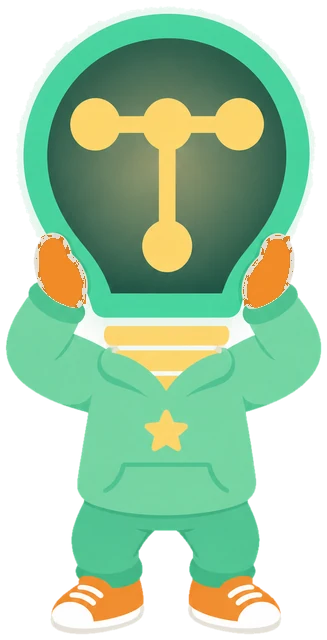
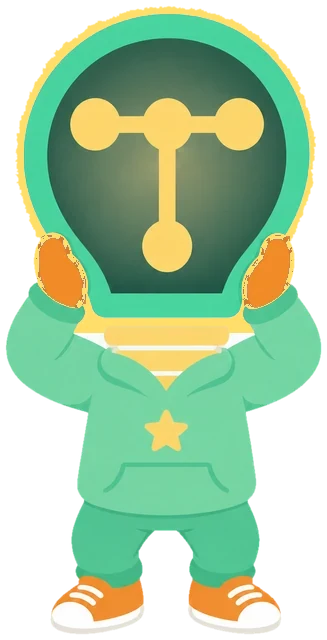
fix240-241: Lumi nem takar, fejlec alatt halad, sarga lampafeny

diff --git a/static/js/lumi.js b/static/js/lumi.js
@@ -75,9 +75,9 @@
     var doboz = D.createElement('div');
     doboz.id = 'lumi';
     doboz.setAttribute('aria-hidden', 'true');
-    doboz.style.cssText = 'position:absolute;left:0;top:0;width:0;height:0;z-index:950;pointer-events:none;';
+    doboz.style.cssText = 'position:absolute;left:0;top:0;width:0;height:0;z-index:45;pointer-events:none;';
     var kotel = D.createElementNS(NS, 'svg');
-    kotel.style.cssText = 'position:absolute;left:0;top:0;width:1px;height:1px;overflow:visible;pointer-events:none;z-index:948';
+    kotel.style.cssText = 'position:absolute;left:0;top:0;width:1px;height:1px;overflow:visible;pointer-events:none;z-index:44';
     kotel.innerHTML = '<path d="" fill="none" stroke="#9A6A32" stroke-width="3.4" stroke-linecap="round"/><path d="" fill="none" stroke="#E0B47A" stroke-width="1.4" stroke-dasharray="3 5" stroke-linecap="round"/>';
     var arny = D.createElement('div');
     arny.style.cssText = 'position:absolute;border-radius:50%;background:radial-gradient(closest-side,rgba(14,42,30,.22),rgba(14,42,30,0));pointer-events:none;opacity:0';
@@ -302,7 +302,7 @@
             .then(function () { return Promise.all([kuszik(x1, ay, y1), anim({lat: 1}, 260, 'ki')]); })
             .then(function () { return lelep(x1, ay); });
     }
-    var kint = false, alattam = null;           // alattam: a felület (elem), amin épp áll
+    var kint = false, alattam = null, kijott = false, bentIdo = 0;           // alattam: a felület (elem), amin épp áll
     function logoPont() { var l = lap(logo); return {x: l.x + l.w / 2, y: l.y + l.h * .55, al: l.y + l.h}; }
     function kijon(cel) {
         var lp = logoPont(), x = lp.x, fent = lp.al - 2, h = MAGAS();
@@ -312,21 +312,31 @@
         return var_(450)
             .then(function () { return anim({}, 380, 'ki', function (u, e) { kotelRajz(x, fent, fent + h * 1.6 * e); }); })   // ledobja a kötelet
             .then(function () {
-                logoAllapot(false); kint = true;
+                logoAllapot(false); kint = true; reteg(true);
                 P.x = x; P.y = lp.y + h * .35; P.meret = .4; P.lat = 1; P.feny = 0; Object.assign(P, NYUGI); maszik(0); P.arnyek = 0;
                 return anim({meret: 1}, 420, 'ki', function (u) { P.y = lp.y + h * (.35 + .9 * u); kotelTest(x, fent); });       // kibújik
             })
             .then(function () { return kuszik(x, fent, Math.min(c.y, fent + h * 1.3)); })                    // lejjebb mászik
+            .then(function () { reteg(false); })
             .then(function () { return kotelut(c.x, c.y, {ax0: x, ay: fent, marKotelen: true}); })           // átlendül, lemászik, lelép
             .then(function () { alattam = c.f || null; return integet(); })
             .then(function () { if (c.ul && P.kep === 'alap') { return ul(); } });
+    }
+    /* fix241 (Sándor: „a fejléc lefejezi Lumit”): Lumi a lap része – a fejléc ALATT halad el (a fejléc eltakarja,
+       nem ő a fejlécet). Csak amíg a logóból kibújik / visszabújik, addig van a fejléc fölött. */
+    function reteg(fent) { doboz.style.zIndex = fent ? 950 : 45; kotel.style.zIndex = fent ? 948 : 44; }
+    function fejAlatt() { return P.y - MAGAS() * .9 < fejlecAlja() - 2; }      // a feje a fejléc alá csúszott
+    function hazaCsendben() {                    // fix239: nem látszik, és a képernyőn sehol nincs neki szabad hely
+        kotelKi(); kint = false; alattam = null; P.lat = 0; rajzol(); logoAllapot(true); bentIdo = Date.now();
+        if (logoG) { logoG.style.transform = 'scale(.7)'; setTimeout(function () { logoAllapot(true); }, 60); }
+        return Promise.resolve('bent');
     }
     function visszamaszik() {
         var lp = logoPont(), ay = lp.al - 2, sajat = megszakit, h = MAGAS(), ax = P.x, y0 = P.y;
         if (!lathato(lp.al + 40) || !latszik()) { return Promise.resolve(); }      // a logó (vagy ő) nem látszik: marad
         var stop = function () { return sajat !== megszakit; };
         function meggondol(x) {                                    // félúton „jé, megint csinál valamit!” – visszamászik
-            var c = most() || {x: ax, y: y0, f: alattam};
+            var c = most() || {x: ax, y: y0, f: alattam}; reteg(false);
             return jel('!', true).then(function () { return var_(400); }).then(function () { return jel('!', false); })
                 .then(function () { return kotelut(c.x, c.y, {ax0: x, ay: ay, marKotelen: true}); })
                 .then(function () { alattam = c.f || null; if (c.ul && P.kep === 'alap') { return ul(); } })
@@ -336,10 +346,11 @@
             .then(function () { return kuszik(ax, ay, ay + h * 1.2, stop); })
             .then(function (s) { if (s) { return meggondol(ax); }
                 return lendul(ax, lp.x, ay).then(function () { if (stop()) { return meggondol(lp.x); }
+                    reteg(true);
                     return kuszik(lp.x, ay, lp.y + h * 1.05, stop).then(function (s2) { if (s2) { return meggondol(lp.x); }
                         var y1 = P.y;
                         return anim({meret: .4, lat: 0}, 380, 'be', function (u) { P.y = y1 - u * 6; kotelRajz(lp.x, ay, ay + (P.y - ay) * (1 - u)); })   // be a logóba
-                            .then(function () { kotelKi(); kint = false; alattam = null; logoAllapot(true); return 'bent'; });
+                            .then(function () { kotelKi(); kint = false; alattam = null; reteg(false); logoAllapot(true); bentIdo = Date.now(); return 'bent'; });
                     });
                 });
             });
@@ -358,14 +369,15 @@
             akadalyok.push({l: r.left + sx, t: r.top + sy, r: r.right + sx, b: r.bottom + sy, tip: tip, el: el}); } }
         var w = D.createTreeWalker(D.body, NodeFilter.SHOW_TEXT, {acceptNode: function (n) {
             if (!n.nodeValue || !n.nodeValue.trim()) { return NodeFilter.FILTER_REJECT; }
-            var p = n.parentElement; if (!p || p.closest('#lumi, script, style, noscript, .navbar, header')) { return NodeFilter.FILTER_REJECT; }
+            var p = n.parentElement; if (!p || p.closest('#lumi, script, style, noscript')) { return NodeFilter.FILTER_REJECT; }
             if (p.closest('details:not([open]) > :not(summary)') || (p.checkVisibility && !p.checkVisibility({visibilityProperty: true}))) { return NodeFilter.FILTER_REJECT; }   // fix239: a becsukott GYIK-válasz szövege nem akadály
             return NodeFilter.FILTER_ACCEPT; }});
         var rg = D.createRange(), n;
         while ((n = w.nextNode())) { rg.selectNodeContents(n); [].forEach.call(rg.getClientRects(), function (r) { tesz(r, 'szoveg'); }); }
         D.querySelectorAll('button, img, video, canvas, select, textarea, input, svg, .fp-nyil, .password-toggle, a.fp-gomb, [role=button]').forEach(function (e) {
-            if (e.closest('#lumi, .navbar, header, details:not([open]) > :not(summary)') || e.type === 'hidden' || (e.checkVisibility && !e.checkVisibility())) { return; }
+            if (e.closest('#lumi, details:not([open]) > :not(summary)') || e.type === 'hidden' || (e.checkVisibility && !e.checkVisibility())) { return; }
             var cs = getComputedStyle(e); if (cs.visibility === 'hidden' || cs.display === 'none' || +cs.opacity < .2) { return; }
+            if (e.tagName.toLowerCase() === 'svg') { var rs = e.getBoundingClientRect(); if (e.parentElement && e.parentElement.closest('svg')) { return; } var nagy = Math.max(rs.width, rs.height), kis = Math.min(rs.width, rs.height); if (nagy > 90 && (kis < 26 || nagy / Math.max(1, kis) > 6 || e.getAttribute('aria-hidden') === 'true')) { return; } }   // fix239: a nagy díszítő vonal (pl. pöttyözött út) nem akadály, az ikon igen
             tesz(e.getBoundingClientRect(), e.matches('input, textarea, select') ? 'mezo' : 'elem', e);
         });
         return akadalyok;
@@ -381,8 +393,14 @@
         return {l: x - h * .25, r: x + h * .25, t: y - h * fel, b: y + h * al};
     }
     function utkozik(d, sajatMezo) { return takaras(d, sajatMezo) > 0; }
+    var fejAljaIdo = 0, fejAlja = 0;
+    function fejlecAlja() {                     // fix239: a (ragadós) fejléc alja lapkoordinátában – Lumi teste ennél feljebb nem lóghat
+        if (performance.now() - fejAljaIdo > 300) { fejAljaIdo = performance.now(); var hd = D.querySelector('.navbar, header'); fejAlja = hd ? hd.getBoundingClientRect().bottom : 0; }
+        return scrollY + Math.max(0, fejAlja);
+    }
     function takaras(d, sajatMezo) {          // fix238: MENNYI szöveget/elemet takarna (terület, px²)
-        var a = akadalyGyujt(), ossz = 0;
+        var a = akadalyGyujt(), ossz = 0, fa = fejlecAlja();
+        if (d.t < fa + 2) { ossz += (fa + 2 - d.t) * (d.r - d.l) * 3; }       // belelógna a fejlécbe
         for (var i = 0; i < a.length; i++) {
             var o = a[i], l = o.l, r = o.r;
             if (o.tip === 'mezo') {                       // a mezőn ülhet/állhat – csak a beírt szövegre nem lóghat
@@ -399,20 +417,40 @@
     /* fix238 (Sándor: „ne oldalt a levegőben – találja meg a helyet, ahol nem takar”): mindig VALÓDI felületen
        marad. Sorrend: állva semmit nem takar → ülve (a lába a mező üres részén) semmit nem takar → ahol a
        legkevesebbet takarná. Kötélen oldalt már nem lóg. */
+    /* fix239 (Sándor: „belelóg a szövegbe”, csomagok: a levegőben ült): csak LÁTHATÓ felületen áll – aminek
+       háttere, kerete vagy árnyéka van (kártya, mező, sáv) –, és csak ott, ahol a talpa alatt tényleg az a
+       felület van (nem takarja el más). Az átlátszó „láthatatlan dobozok” teteje nem felület. */
+    function alfa(c) { if (!c || c === 'transparent') { return 0; } var m = c.match(/rgba?\(([^)]+)\)/); if (!m) { return 1; }
+        var p = m[1].split(/[\s,\/]+/).filter(Boolean); return p.length > 3 ? parseFloat(p[3]) : 1; }
+    function valodi(el) {
+        if (!el || el.nodeType !== 1) { return false; }
+        if (el.matches('input:not([type=checkbox]):not([type=radio]), textarea, select, button, img, video, canvas')) { return true; }
+        var cs = getComputedStyle(el);
+        if (cs.visibility === 'hidden' || +cs.opacity < .3) { return false; }
+        return alfa(cs.backgroundColor) > .15 || cs.backgroundImage !== 'none' || cs.boxShadow !== 'none' ||
+            (parseFloat(cs.borderTopWidth) > .5 && cs.borderTopStyle !== 'none' && alfa(cs.borderTopColor) > .15);
+    }
+    function alatta(x, y, el) {                 // a talpa alatt (pár px-szel lejjebb) tényleg ez a felület van-e
+        var vx = x - scrollX, vy = y + 3 - scrollY;
+        if (vx < 1 || vy < 1 || vx > innerWidth - 1 || vy > innerHeight - 1) { return true; }   // nem látszik – nem tudjuk ellenőrizni
+        var t = D.elementsFromPoint(vx, vy);
+        for (var i = 0; i < t.length; i++) { if (t[i].closest('#lumi')) { continue; } return el.contains(t[i]); }
+        return false;
+    }
     function keres(feluletek, sajatMezo) {
         var h = MAGAS(), fel = h * .28, lx = scrollX + 6, rx = scrollX + innerWidth - 6, legjobb = null;
+        feluletek = feluletek.filter(function (f) { return f && f.w >= h * .6 && f.y > scrollY + 20 && f.y < scrollY + innerHeight - 8 && valodi(f.el); });   // csak látható, valódi felület
         for (var mod = 0; mod < 2; mod++) {
             for (var i = 0; i < feluletek.length; i++) {
-                var f = feluletek[i]; if (!f || f.w < h * .6) { continue; }
+                var f = feluletek[i];
                 var bal = Math.max(f.l + fel, lx + fel), jobb = Math.min(f.r - fel, rx - fel);
                 for (var x = jobb; x >= bal; x -= 8) {
                     var t = takaras(dobozom(x, f.y + 1, mod === 1), sajatMezo) + (jobb - x) * .01 + i * 50;
-                    if (t < 1 + (jobb - x) * .01 + i * 50) { return {x: x, y: f.y + 1, ul: mod === 1, f: f.el}; }
-                    if (!legjobb || t < legjobb.t) { legjobb = {x: x, y: f.y + 1, ul: mod === 1, t: t, f: f.el}; }
+                    if (t < 1 + (jobb - x) * .01 + i * 50) { if (alatta(x, f.y, f.el)) { return {x: x, y: f.y + 1, ul: mod === 1, f: f.el}; } continue; }
                 }
             }
         }
-        return legjobb;
+        return null;            // fix239 (Sándor: „belelóg a szövegbe”): ha mindenhol takarna, itt nincs helye – inkább máshová megy
     }
     function kartyaja(el) { return el.closest('.fp-kartya, .auth-card, .doboz, .card, details, form, main section') || el.parentElement; }
     function helyMezo(m) {
@@ -420,28 +458,39 @@
         if (m.type === 'checkbox' || m.type === 'radio') { c = m.closest('label, .field') || m; }
         var mezo = m.matches('input, textarea, select') && m.type !== 'checkbox' ? m : null;
         // csak a mező közelében keres (a doboz tetejére nem ugrik el – ott messze lenne attól, amit csinálsz)
-        return keres([felulet(c), m.closest('.field') && felulet(m.closest('.field'))], mezo) || {x: lap(c).x + lap(c).w - MAGAS() * .4, y: lap(c).y + 1, f: c};
+        return keres([felulet(c), c !== m && felulet(m), m.closest('.field') && felulet(m.closest('.field'))], mezo);
     }
     function helyDoboz(el) {
         var k = kartyaja(el), fl = [felulet(el), k && k !== el && felulet(k)], n = (k && k !== el ? k : el).nextElementSibling;
         // fix239: ha ott nincs szabad hely (pl. a doboz fölött szöveg van), a következő 1-3 dobozon keres – nem lóg bele a szövegbe
-        for (var i = 0; i < 3 && n; i++, n = n.nextElementSibling) { var r = n.getBoundingClientRect(); if (r.width > 200 && r.height > 30) { fl.push(felulet(n.matches('details') && n.querySelector('summary') || n)); } }
-        return keres(fl, null) || {x: lap(el).x + lap(el).w * .62, y: lap(el).y + 2, f: el};
+        for (var i = 0; i < 3 && n; i++, n = n.nextElementSibling) { var r = n.getBoundingClientRect(); if (r.width > 200 && r.height > 30) { fl.push(felulet(n)); } }
+        return keres(fl, null);
     }
     function ulhet() {                           // leülhet-e ott, ahol áll (a lába se takarjon szöveget)
         return horgony && !utkozik(dobozom(P.x, P.y, true), horgony.matches && horgony.matches('input, textarea') ? horgony : null);
     }
-    function fodoboz() {                          // fix239: a látható rész egyik doboza (kártya, GYIK-kérdés…)
+    function fodoboz() {                          // fix239: a látható rész egyik VALÓDI doboza, ahol nem takar szöveget
         var jel_ = ['.fp-kartya', '.auth-card', '.doboz', 'details.fp-k', '.fp-k', '.cs-lap', '.card', 'details', 'main section', 'main form', 'main h2', '.content'];
-        var fent = tetoY() - scrollY + MAGAS() * 1.1;
+        var fent = tetoY() - scrollY + MAGAS() * 1.1, legjobb = null, lt = 1e12, volt = [];
+        function probal(e) {
+            if (volt.indexOf(e) >= 0 || e.closest('#lumi, .navbar, header')) { return false; }
+            volt.push(e);
+            var r = e.getBoundingClientRect();
+            if (!(r.width > 120 && r.height > 24 && r.top > fent && r.top < innerHeight - 30)) { return false; }
+            var hh = helyDoboz(e); if (!hh) { return false; }
+            legjobb = e; return true;
+        }
         for (var i = 0; i < jel_.length; i++) {
             var t = D.querySelectorAll(jel_[i]);
-            for (var j = 0; j < t.length; j++) {
-                if (t[j].closest('#lumi, .navbar, header, footer')) { continue; }
-                var r = t[j].getBoundingClientRect();
-                if (r.width > 220 && r.height > 36 && r.top > fent && r.top < innerHeight - 120) { return t[j].matches('details') ? (t[j].querySelector('summary') || t[j]) : t[j]; }
-            }
+            for (var j = 0; j < t.length; j++) { if (probal(t[j])) { return legjobb; } }
         }
+        // bármilyen más látható felület (sáv, kép, gomb, táblázat…), a képernyő közepéhez legközelebb
+        var mind = [].slice.call(D.querySelectorAll('body *')).filter(function (e) {
+            if (e.closest('#lumi, .navbar, header, script, style')) { return false; }
+            var r = e.getBoundingClientRect(); return r.width > 120 && r.height > 24 && r.top > fent && r.top < innerHeight - 30 && valodi(e); });
+        mind.sort(function (a, b) { return Math.abs(a.getBoundingClientRect().top - innerHeight * .45) - Math.abs(b.getBoundingClientRect().top - innerHeight * .45); });
+        var tetok = {};
+        for (var k = 0, n = 0; k < mind.length && n < 90; k++) { var tk = Math.round(mind[k].getBoundingClientRect().top / 4); if (tetok[tk] > 2) { continue; } tetok[tk] = (tetok[tk] || 0) + 1; n++; if (probal(mind[k])) { return legjobb; } }
         return null;
     }
     var horgony = null;
@@ -450,7 +499,8 @@
         return horgony.matches && horgony.matches('input, select, textarea') ? helyMezo(horgony) : helyDoboz(horgony);
     }
     function lathato(y) { return y > scrollY + 50 && y < scrollY + innerHeight - 10; }
-    function latszik() { return P.y > scrollY + 20 && P.y - MAGAS() * .9 < scrollY + innerHeight; }   // Lumi bármely része látszik
+    function latszik() { return P.y > scrollY + 5 && P.y - MAGAS() * .9 < scrollY + innerHeight - 5; }   // Lumi bármely része látszik
+    function rendben() { return P.y > scrollY + 5 && P.y < scrollY + innerHeight - 2 && !fejAlatt(); }   // fix241: EGÉSZEN látszik (a lába sem lóg ki alul, a feje sincs a fejléc alatt)
     function menj(hely) {                       // fix239: séta / kis ugrás / kötélút – sosem teleportál
         hely = hely || most();
         if (!hely || !lathato(hely.y)) { return Promise.resolve(); }      // a cél nem látszik: marad
@@ -466,17 +516,25 @@
     // ── EGYÜTT ÉL VELÜNK: ha hozzáérsz, odébb ugrik ───────────────────────
     var csikiIdo = -1e9;
     function csiki(ev) {
-        if (!kint || performance.now() - csikiIdo < 900) { return; }
+        if (!kint || fut > 1 || performance.now() - csikiIdo < 900) { return; }
         csikiIdo = performance.now();
-        var ex = (ev && ev.pageX) || P.x, irany = ex < P.x ? 1 : -1, tav = MAGAS() * .75;
-        // fix231: a helyén marad – mezőn a mező szélén belül ugrik odébb, nem a levegőbe
-        var hat = horgony ? lap(horgony.closest && horgony.closest('.password-field, .field, details, .fp-kartya') || horgony) : {x: scrollX + 30, w: innerWidth - 60};
-        var balSz = Math.max(scrollX + 30, hat.x + 34), jobbSz = Math.min(scrollX + innerWidth - 30, hat.x + hat.w - 34);
-        if (P.x + irany * tav > jobbSz || P.x + irany * tav < balSz) { irany = -irany; }
-        tav = Math.max(20, Math.min(tav, irany > 0 ? jobbSz - P.x : P.x - balSz));
+        var ex = (ev && ev.pageX) || P.x, irany = ex < P.x ? 1 : -1, h = MAGAS();
+        // fix239: ugyanazon a felületen ugrik odébb, és csak oda, ahol nem takar szöveget; ha nincs ilyen hely, csak összerezzen
+        var f = alattam && felulet(alattam), sm = horgony && horgony.matches && horgony.matches('input, textarea') ? horgony : null, cel = null;
+        [irany, -irany].some(function (ir) {
+            if (!f) { return true; }
+            for (var d = h * .6; d <= h * 1.6; d += 8) {
+                var x = P.x + ir * d;
+                if (x < f.l + h * .28 || x > f.r - h * .28 || x < scrollX + 20 || x > scrollX + innerWidth - 20) { break; }
+                if (takaras(dobozom(x, P.y, false), sm) < 1 && alatta(x, P.y - 1, alattam)) { cel = x; irany = ir; return true; }
+            }
+            return false;
+        });
         megszakit++; utolsoMozdulat = Date.now();
         tedd(function () {
-            return jel('!', true).then(function () { return ugras(P.x + irany * tav, P.y, MAGAS() * .35, 330); })
+            if (P.kep === 'ul') { legyen('alap'); }
+            var mozdul = cel != null ? ugras(cel, P.y, h * .35, 330) : anim({ny: .9, dol: -irany * 6}, 160, 'ki').then(function () { return anim(NYUGI, 420, 'rugo'); });
+            return jel('!', true).then(function () { return mozdul; })
                 .then(function () { return jel('!', false); }).then(function () { return anim({fej: -irany * 10}, 300); })
                 .then(function () { return var_(500); }).then(function () { return alap(300); });
         });
@@ -536,15 +594,13 @@
     // ── INDULÁS ─────────────────────────────────────────────────────────
     function indul() {
         D.body.appendChild(doboz);
-        var cel = fodoboz();
-        if (!cel) { return; }
+        var cel = fodoboz(), h = cel && helyDoboz(cel);
         horgony = cel;
-        var h = helyDoboz(cel);
         // ha van űrlap, egyenesen az első mezőre ugrik (a doboz tetején a fölötte lévő szöveget takarná)
         var elso = [].slice.call(D.querySelectorAll('main form input, .fp form input, .content form input')).filter(function (m) {
             var r = m.getBoundingClientRect(); return m.type !== 'hidden' && m.offsetParent && r.width > 120 && r.left >= 0 && r.right <= innerWidth && r.top > 80 && r.bottom < innerHeight - 20; })[0];
-        if (elso) { horgony = elso; h = helyMezo(elso); }
-        tedd(function () { return var_(400).then(function () { return kijon({y: h.y, hely2: h}); }); });
+        var hm = elso && helyMezo(elso); if (hm) { horgony = elso; h = hm; }
+        if (h) { kijott = true; tedd(function () { return var_(400).then(function () { return kijon({y: h.y, hely2: h}); }); }); }
         D.querySelectorAll('main form, .content form, .fp form').forEach(function (f) { if (!f.closest('header, nav')) { urlap(f); } });
         D.querySelectorAll('details').forEach(function (d) {
             d.addEventListener('toggle', function () {
@@ -559,9 +615,16 @@
         addEventListener('scroll', function () {
             clearTimeout(gIdo);
             gIdo = setTimeout(function bejon() {                      // fix239: ha épp mást csinál, kicsit később jön le
-                if (!kint || latszik()) { return; }
+                if (!kint && (fut || (kijott && Date.now() - bentIdo < 2500))) { gIdo = setTimeout(bejon, 600); return; }
+                if (!kint) { var c0 = fodoboz(); if (c0) { kijott = true; horgony = c0; tedd(function () { var h1 = helyDoboz(c0); return kijon({y: h1.y, hely2: h1}); }); } return; }   // fix239: ha betöltéskor nem volt hova, görgetéskor jön ki
+                if (!kint || rendben()) { return; }
+                if (latszik()) {            // fix241: csak részben látszik (a fejléc alatt / alul kilóg) – kötélen átmegy egy egészen látható helyre (vagy hazamászik)
+                    if (fut) { gIdo = setTimeout(bejon, 500); return; }
+                    var c1 = fodoboz(); if (c1) { horgony = c1; tedd(function () { return menj(helyDoboz(c1)); }); } else { tedd(visszamaszik); }
+                    return;
+                }
                 if (fut) { gIdo = setTimeout(bejon, 500); return; }
-                var uj = fodoboz(); if (uj) { horgony = uj; tedd(function () { return menj(helyDoboz(uj)); }); }
+                var uj = fodoboz(); if (uj) { horgony = uj; tedd(function () { return menj(helyDoboz(uj)); }); } else { tedd(hazaCsendben); }
             }, 450);
         }, {passive: true});
         var rIdo = null;
@@ -577,11 +640,25 @@
         setInterval(function () {
             if (!kint || fut || D.hidden) { return; }
             var tetlen = Date.now() - utolsoMozdulat;
-            if (!latszik()) { var uj = fodoboz(); if (uj) { horgony = uj; tedd(function () { return menj(helyDoboz(uj)); }); } return; }
+            if (latszik() && !rendben() && (P.kep === 'alap' || P.kep === 'ul')) { var c3 = fodoboz(); if (c3) { horgony = c3; tedd(function () { return menj(helyDoboz(c3)); }); } else { tedd(visszamaszik); } return; }
+            if (!latszik()) { var uj = fodoboz(); if (uj) { horgony = uj; tedd(function () { return menj(helyDoboz(uj)); }); } else { tedd(hazaCsendben); } return; }
+            // fix239: ha a lap megváltozott alatta, és most szöveget takar – keres szabad helyet; ha nincs, hazamászik
+            if (P.kep === 'alap' || P.kep === 'ul') {
+                var most_ = dobozom(P.x, P.y, P.kep === 'ul'), sm = horgony && horgony.matches && horgony.matches('input, textarea') ? horgony : null;
+                if (takaras(most_, sm) > 40) {
+                    var h2 = most(), c2 = !h2 && fodoboz();
+                    if (h2) { tedd(function () { return menj(h2); }); }
+                    else if (c2) { horgony = c2; tedd(function () { return menj(helyDoboz(c2)); }); }
+                    else { tedd(visszamaszik); }
+                    return;
+                }
+            }
             if (tetlen > 40000) { tedd(visszamaszik); return; }
             // fix231: ha egy mezőn áll, és egy ideje nem történik semmi, leül a mező szélére
-            if (tetlen > 5000 && P.kep === 'alap' && horgony && horgony.matches && horgony.matches('input, select, textarea')
-                && jo(horgony) && ulhet()) { tedd(ul); return; }                   // fix237: csak ha a mező jó, és a lába se takar szöveget
+            // fix239 (Sándor: „üljön le, ahogy a főoldalon”): ha egy ideje nem történik semmi, leül a felület szélére –
+            // csak ha a lába sem takar szöveget, és nem egy rosszul kitöltött mezőn van
+            if (tetlen > 5000 && P.kep === 'alap' && horgony && rendben() && ulhet()
+                && !(horgony.matches && horgony.matches('input, select, textarea') && (horgony.value || '').trim() && !jo(horgony))) { tedd(ul); return; }
             if (tetlen > 9000 && Math.random() < .35 && lathato(P.y)) {
                 tedd(Math.random() < .5 ? integet : function () { return anim({fej: 12}, 500).then(function () { return var_(600); }).then(function () { return anim({fej: -10}, 700); }).then(function () { return alap(500); }); });
             }
@@ -599,9 +676,10 @@
                     if (h0) {
                         var sajat = h0.f === alattam, dx = Math.abs(h0.x - P.x), dy = Math.abs(h0.y - P.y);
                         if (sajat && dy > 1) { P.y = h0.y; dy = 0; }                                               // a felülete mozdult: vele megy
-                        if (!sajat || dx > 8) { if (lathato(h0.y) && latszik()) { tedd(function () { return menj(most()); }); } }   // fix239: odasétál / -ugrik / kötélen megy
+                        var itt = sajat && takaras(dobozom(P.x, P.y, P.kep === 'ul'), horgony.matches && horgony.matches('input, textarea') ? horgony : null) < 1;
+                        if (!sajat || (dx > 8 && !itt)) { if (lathato(h0.y) && rendben()) { tedd(function () { return menj(most()); }); } }   // fix239: csak ha a mostani helyén takarna, vagy másik felületre kell
+                        else if (itt) { /* jó helyen van: marad */ }
                         else if (h0.ul && P.kep === 'alap') { tedd(ul); }                                           // fix238: ott csak ülve fér el
-                        else if (!h0.ul && P.kep === 'ul' && takaras(dobozom(P.x, P.y, false), null) < 1) { legyen('alap'); }
                         else if (sajat && dx > 1) { P.x = h0.x; }
                     }
                 }
@@ -610,7 +688,9 @@
             requestAnimationFrame(el);
         })(t0);
     }
-    window.__lumi = {poz: function (o) { Object.assign(P, o); rajzol(); }, hely: function () { var h = most(); return h && {x: h.x, y: h.y, ul: h.ul, t: h.t, P: [P.x, P.y, P.kep]}; }, orul: function () { return tedd(function () { return orul(true); }); }, gondolkodik: function () { return tedd(gondolkodik); },
+    window.__lumi = {poz: function (o) { Object.assign(P, o); rajzol(); }, hely: function () { var h = most(); return h && {x: h.x, y: h.y, ul: h.ul, t: h.t, P: [P.x, P.y, P.kep]}; },
+        doboz: function () { var e = fodoboz(); return e && (e.tagName + '.' + e.className); },
+        allapot: function () { return {x: P.x, y: P.y, kep: P.kep, kint: kint, fut: fut, lat: P.lat, h: MAGAS()}; }, orul: function () { return tedd(function () { return orul(true); }); }, gondolkodik: function () { return tedd(gondolkodik); },
         integet: function () { return tedd(integet); }, aha: function () { return tedd(aha); }, vissza: function () { return tedd(visszamaszik); }};
     if (D.readyState === 'loading') { D.addEventListener('DOMContentLoaded', function () { setTimeout(indul, 600); }); } else { setTimeout(indul, 600); }
 })();

diff --git a/lumi_kepek.py b/lumi_kepek.py
@@ -312,6 +312,24 @@ def kesztyu_narancs(k):
     return Image.fromarray(a.astype(np.uint8))
 
 
+def fej_sarga(k):
+    """fix241 (Sándor: „a fejénél miért fehér a kör, miért nem sárga, mint egy lámpa?”): a lámpa körüli
+    fehér / halványzöld szegély meleg lámpasárga fényt kap. Csak a kép felső felében (a fej magasságában),
+    folyamatos átmenettel (a fehérebb rész sárgább), így a ragyogó képeken sincs lyuk a fényben."""
+    import numpy as np
+    from PIL import Image
+    a = np.array(k.convert('RGBA')).astype(np.float32)
+    rgb = a[..., :3] / 255.0; al = a[..., 3]
+    mx = rgb.max(-1); mn = rgb.min(-1); s = np.where(mx > 0, (mx - mn) / np.maximum(mx, 1e-6), 0)
+    sor = np.arange(a.shape[0])[:, None] < a.shape[0] * 0.52
+    def ss(e0, e1, x):
+        t = np.clip((x - e0) / (e1 - e0), 0, 1); return t * t * (3 - 2 * t)
+    w = ss(0.55, 0.85, mx) * (1 - ss(0.22, 0.42, s)) * sor * (al > 0)
+    cel = np.array([255, 222, 105], np.float32)
+    a[..., :3] = a[..., :3] * (1 - w[..., None]) + cel * w[..., None]
+    return Image.fromarray(a.clip(0, 255).astype(np.uint8), 'RGBA')
+
+
 def jovahagy(csak: list[str] | None = None) -> int:
     from PIL import Image
     os.makedirs(VEGLEGES, exist_ok=True)
@@ -326,6 +344,7 @@ def jovahagy(csak: list[str] | None = None) -> int:
             k = k.crop((max(0, bb[0] - 8), max(0, bb[1] - 8), bb[2] + 8, bb[3] + 8))
         k.thumbnail((640, 640), Image.LANCZOS)
         k = kesztyu_narancs(k)                    # fix232/233: narancs kesztyű (scipy nélkül is)
+        k = fej_sarga(k)                          # fix241: sárga lámpafény a fej körül (nem fehér)
         k.save(os.path.join(VEGLEGES, nev + ".webp"), "WEBP", quality=88, method=6)
         db += 1
         print(f"  kész: static/figurak/lumi/{nev}.webp")

diff --git a/TEENDOK.md b/TEENDOK.md
@@ -1868,7 +1868,13 @@ Tervezett elemek:
 - [x] (fix233) JELSZÓ: új jelszónál (regisztráció, új jelszó) min. 8 karakter + betű + szám (szerver is ellenőrzi); a mező alatt csík: gyenge/közepes/erős (HU+ES); Lumi a gyengénél gondolkodik, a jónál örül. Régi jelszóval a belépés marad.
 - [x] (fix238) Lumi NEM lóg oldalt kötélen (Sándor: „ne oldalt a levegőben”): mindig a mező/doboz szélén marad – ha állva takarna, leül (a lába a mező üres részén), ha így is takarna, ott áll, ahol a legkevesebbet takar. Kicsit kisebb lett (gépen 116, telefonon 86 px).
 - [x] (fix239) Lumi mozgása (Sándor 6 szabálya): sosem teleportál; ugyanazon a felületen SÉTÁL; szomszédos felületre kicsit UGRIK; messzire KÖTÉLEN megy (a fejléc aljáról ledobja, felmászik, átlendül, lemászik); ha görgetés miatt nem látszik, kötélen ereszkedik le a látható részre; a logóból is kötélen lendül a helyére, és úgy is mászik vissza. A becsukott GYIK-válasz rejtett szövege már nem számít akadálynak; a GYIK nyilait sem takarja; ha egy doboz fölött nincs hely, a következő dobozon áll meg. Tesztelve: gépen és telefonon, regisztráció + GYIK, 0 teleport.
-- [ ] Lumi: Sándor új hibáit javítani, ha jelzi. Nyitott kérdés: „a fejléc mozog” – mit csinál pontosan?
+- [x] (fix240) Lumi (Sándor: „belelóg a szövegbe, nem ül le, a főoldalon nem mindig jön elő”): sosem takar szöveget (a menü szövegét sem, a teste a fejlécbe sem lóg); csak LÁTHATÓ felületen áll (kártya, mező, sáv – átlátszó „láthatatlan doboz” tetején nem); ha egy ideje nem történik semmi, LEÜL a felület szélére (rosszul kitöltött mezőn nem); ha a képernyőn sehol nincs szabad hely (pl. sűrű szöveg az ÁSZF közepén), a logóban marad / hazamászik, és görgetéskor kijön, amint van hely; betöltéskor ha nincs hely, görgetéskor jön ki (a főoldalon ezért nem jött elő). Csiklandozásra csak szabad helyre ugrik.
+- [x] (fix240) Lumi-ellenőrzés automatikusan: 17 oldal (kijelentkezve + bejelentkezve), HU+ES, 3 képernyőméret (1280, 1840, telefon), oldalanként betöltés/közép/alja/vissza/mezők – 306 állapot: 0 szövegtakarás, 0 levegőben állás, 0 JS-hiba, 0 teleport.
+- [ ] Lumi a főoldalon (main) még a RÉGI (fix234) – ott belelóg a szövegbe. A fix240 felküldése után megszűnik.
+- [x] (fix241) Lumi a fejléc ALATT halad el (nem „fejezi le” a fejléc, és ő sem lóg rá a fejlécre); ha görgetés után a feje a fejléc alá kerül, vagy alul kilóg, kötélen átmegy egy egészen látható helyre (ha nincs ilyen, visszamászik a logóba). Bejelentkezett vezérlőpult gyerekkártyákkal is tesztelve (telefon + gép).
+- [x] (fix241) A lámpa körüli fehér szegély sárga lámpafény lett mind a 12 képen (static/figurak/lumi); lumi_kepek.py --jovahagy is így készíti (fej_sarga).
+- [ ] Lumi: a csomagok oldal közepén (és ÁSZF/blog közepén) nincs szöveget nem takaró hely → ott a logóba mászik. Kérdés Sándornak: így maradjon, vagy legyen kisebb Lumi, hogy több helyen elférjen?
+- [ ] Lumi: Sándor új hibáit javítani, ha jelzi.
 - [x] (fix237) LUMI SOSEM TAKAR SZÖVEGET ÉS NEM LÓG A LEVEGŐBEN: minden oldalon megkeresi azt a helyet a mező/doboz felső szélén, ahol a teste nem takar szöveget, gombot, képet; ha nincs ilyen, a doboz mellett (telefonon a képernyő szélén) kötélen lóg. Csak akkor ül le, ha a mező jó, és a lába sem takar. Hibás kitöltésnél (ha abbahagytad a gépelést) a fejét fogja.
 - [ ] (fix237) FEJFOGÁS kép: python lumi_kepek.py --allapot fejfogas, majd --jovahagy --csak fejfogas → a lumi.js magától használja (addig a „gondolkodik” megy helyette).
 - [x] (11.20) A main-re vitel eddig NEM sikerült: 4 el nem mentett fájl (avatar_minta.py, hirdetes_kepek.py, tanar_teszt_jelentes.md, veo_nyito.py) miatt a „git checkout main” leállt. Megoldás: git stash → checkout main → pull → merge proba → push → checkout proba → git stash pop.
